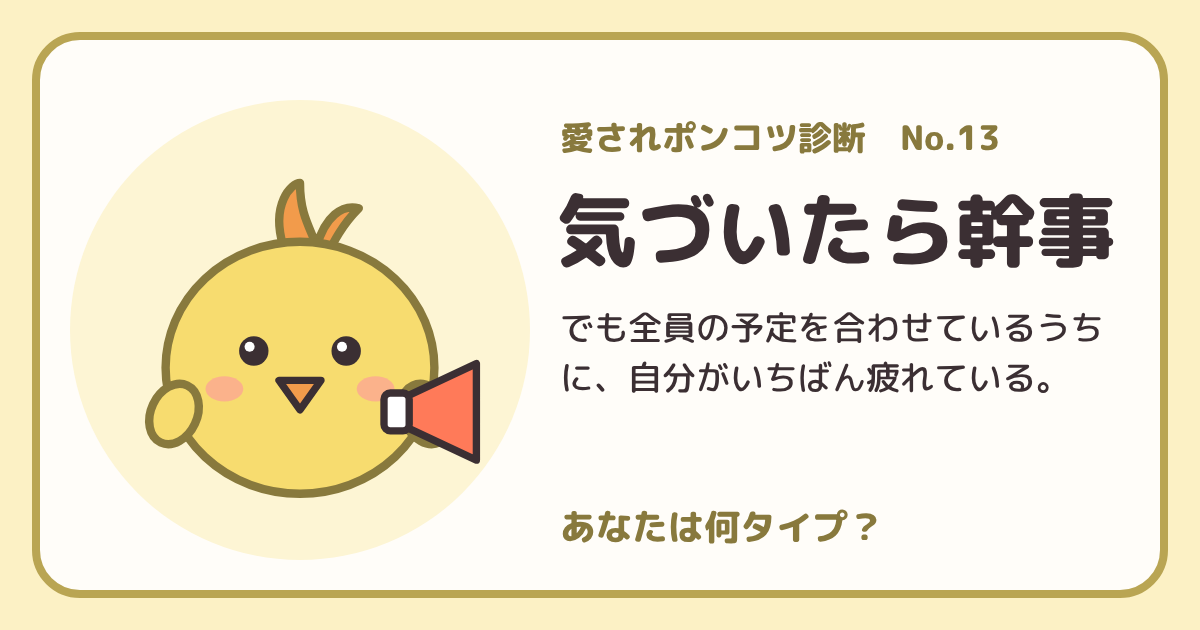
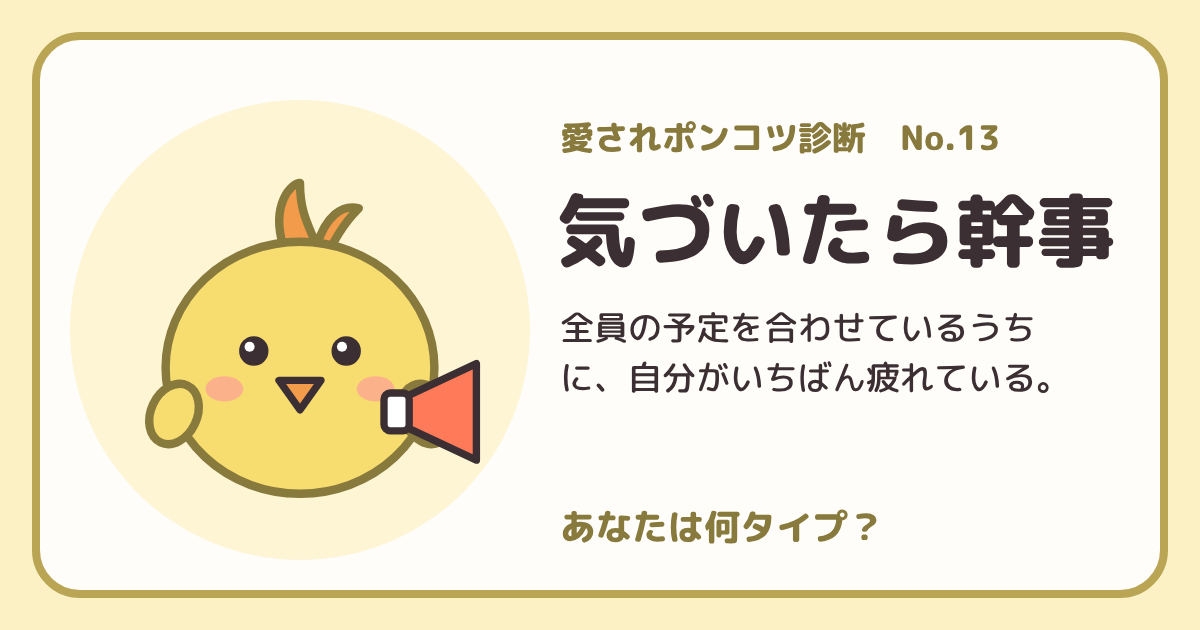
Add skill/weakness status lines, refresh OGP, docs and e2e for v3.1
- Free status chapter shows a 必殺技 (highest parameter) and 弱点 (lowest); also in share text
- OGP images regenerated (roast shown without the leading でも)
- e2e covers cookie restore, guardian claim by secret, one-time gift, thanks retry and cancel, group leave
- Design, monetization and README updated: webhook setup, payment methods, promo expiry,
  support reissue script, new endpoints, schema reset

Claude-Session: https://claude.ai/code/session_01DUibEV4oyXjx4TjK6kcgcY

Changed region(s): [[0.4625, 0.4825, 0.925, 0.5429]]

diff --git a/site/assets/data.js b/site/assets/data.js
@@ -156,13 +156,14 @@ export const AXIS_MAX = 9; // 1軸3問 × 最大3点
 // ---------- くわしい診断のパラメータ（各4問・選択肢は 0〜3 点） ----------
 // タイプはかんたん診断で決まり、くわしい診断は同じタイプを細かくする「続きの章」にする。
 // 二つ名は、いちばん振り切れたパラメータの high / low から取る。
+// skill / weak は、ステータスの「必殺技」（いちばん高いパラメータ）と「弱点」（いちばん低いパラメータ）。
 export const PARAMS = [
-  { key: 'koi', name: '恋愛積極度', high: '恋に全力な', low: '恋はのんびり派の' },
-  { key: 'yaki', name: 'ヤキモチ度', high: 'ヤキモチ焼きの', low: '心が広すぎる' },
-  { key: 'samishi', name: 'さみしがり度', high: 'さみしがりの', low: 'ひとりでも平気な' },
-  { key: 'mousou', name: '妄想力', high: '妄想がとまらない', low: '地に足がついた' },
-  { key: 'oshi', name: '推し活熱量', high: '推しが燃料の', low: '自分推しの' },
-  { key: 'tsukkomi', name: 'ツッコミ力', high: 'ツッコミが鋭い', low: '天然ボケの' },
+  { key: 'koi', name: '恋愛積極度', high: '恋に全力な', low: '恋はのんびり派の', skill: '気づいたら連絡先ゲット', weak: '好きバレまで3年かかる' },
+  { key: 'yaki', name: 'ヤキモチ度', high: 'ヤキモチ焼きの', low: '心が広すぎる', skill: '好きな人の変化に一瞬で気づく', weak: 'ライバルの存在に気づかない' },
+  { key: 'samishi', name: 'さみしがり度', high: 'さみしがりの', low: 'ひとりでも平気な', skill: '気づけば誰かと通話中', weak: '誘いを3日放置' },
+  { key: 'mousou', name: '妄想力', high: '妄想がとまらない', low: '地に足がついた', skill: '脳内で連載100話', weak: 'ロマンチックな雰囲気をスルー' },
+  { key: 'oshi', name: '推し活熱量', high: '推しが燃料の', low: '自分推しの', skill: '布教用グッズ一式', weak: '推しの誕生日を素で忘れる' },
+  { key: 'tsukkomi', name: 'ツッコミ力', high: 'ツッコミが鋭い', low: '天然ボケの', skill: '秒速ツッコミ', weak: 'ボケに気づかず真顔で返す' },
 ];
 export const PARAM_MAX = 12; // 1パラメータ4問 × 最大3点
 

diff --git a/site/assets/report.js b/site/assets/report.js
@@ -51,6 +51,22 @@ function chapter(no, title, body, { free = false, locked = false } = {}) {
   </section>`;
 }
 
+// RPG風の「必殺技」（いちばん高いパラメータ）と「弱点」（いちばん低いパラメータ）。ランクと同じく無料
+export function skillsOf(r) {
+  const order = r.params.map((v, k) => [v, k]).sort((x, y) => y[0] - x[0] || x[1] - y[1]);
+  const hi = order[0];
+  const lo = order[order.length - 1];
+  return hi[0] === lo[0] ? null : { skill: PARAMS[hi[1]], weak: PARAMS[lo[1]], hiRank: rankOf(hi[0]), loRank: rankOf(lo[0]) };
+}
+function skillsBox(r) {
+  const s = skillsOf(r);
+  if (!s) return '';
+  return `<div class="skills">
+    <div><span class="chip">必殺技</span><b>「${esc(s.skill.skill)}」</b><small>${esc(s.skill.name)} ${s.hiRank}</small></div>
+    <div><span class="chip soft">弱点</span><b>「${esc(s.weak.weak)}」</b><small>${esc(s.weak.name)} ${s.loRank}</small></div>
+  </div>`;
+}
+
 function statusChapter(r, prem) {
   const sampleText = PARAM_TEXT[r.nickname.param][paramLevel(r.params[r.nickname.param])];
   const values = statValues(r);
@@ -69,6 +85,7 @@ function statusChapter(r, prem) {
   return `
     <div class="radar-wrap">${radarSVG(values, { labels, masked, color: shade(t.color, 0.32) })}</div>
     <ul class="stats">${rows}</ul>
+    ${skillsBox(r)}
     <p class="hint">S〜D は高さの目安で、よい・わるいではありません。${masked ? 'ランクは無料、6つのパラメータの数値と解説は完全版で読めます。' : ''}</p>
     <div class="nick-why">
       <h3>二つ名「${esc(r.nickname.text)}」の理由</h3>
@@ -142,7 +159,8 @@ export async function viewReport(r, shareId) {
   const love = LOVE_TYPES[r.love];
   const name = fullName(r);
   const url = `${ORIGIN}/t/${typeNo(r.index).toLowerCase()}/?s=${shareId}`;
-  const text = `【${name}】だった！ 恋愛は「${love.name}」\n#${SITE.hashtag} あなたの二つ名は？`;
+  const sk = skillsOf(r);
+  const text = `【${name}】だった！ 恋愛は「${love.name}」${sk ? `\n必殺技「${sk.skill.skill}」／弱点「${sk.weak.weak}」` : ''}\n#${SITE.hashtag} あなたの二つ名は？`;
   await restorePurchase();
   const [stats, fetched, s] = await Promise.all([
     loadStats(),

diff --git a/site/assets/style.css b/site/assets/style.css
@@ -465,3 +465,10 @@ fieldset.age legend { font-size: 13px; font-weight: 800; padding: 0 6px; }
 .plan b em { display: block; font-style: normal; font-size: 12px; color: var(--sub); font-weight: 700; }
 .member-wrap { display: flex; flex-direction: column; align-items: center; }
 .linkish.small { margin-top: 0; font-size: 12px; padding: 2px 6px; }
+
+/* 必殺技と弱点 */
+.skills { display: grid; grid-template-columns: 1fr 1fr; gap: 8px; margin: 10px 0; }
+.skills > div { background: #fff; border: 2px solid var(--line); border-radius: 14px; padding: 8px 10px; display: flex; flex-direction: column; gap: 2px; }
+.skills .chip { align-self: flex-start; font-size: 11px; }
+.skills b { font-size: 14px; line-height: 1.4; }
+.skills small { font-size: 11px; color: var(--sub); }

diff --git a/docs/design.md b/docs/design.md
@@ -1,10 +1,11 @@
-# 愛されポンコツ診断（ポンコツ図鑑）設計メモ v3
+# 愛されポンコツ診断（ポンコツ図鑑）設計メモ v3.1
 
 レポート『SNSでバズる診断コンテンツ調査』の第1位案「自虐ミームラベル診断」を、成功例を参考に作り込んだもの。v3では、診断を**かんたん診断（12問）**と**くわしい診断（＋24問）**の2段階に分けた。くわしい診断の結果は、ふんわりした部分だけを無料で見せる。くわしい部分にはモザイクをかけ、完全版を買うと読めるようにした。
 
 - 名前はすべて仮。`site/assets/config.js` を変えれば全ページに反映される。
-- 調査メモ
+- 調査メモ・レビュー
   - v2: `research_notes/v2_benchmarks/`（結果ページの作り・マネタイズ）
+  - v3.1 のレビュー: `research_notes/v3/review_code.md`（コード・決済・セキュリティ）、`research_notes/v3/review_copy.md`（文言・法令・10代の安全）。指摘はすべて反映した
   - v3: `research_notes/v3/paywall_patterns.md`（チラ見せ・ペイウォール・法規制）、`research_notes/v3/two_tier_and_viral.md`（2段階診断・二つ名・友達クイズ・2026年の10代トレンド）
 - お金まわり: `docs/monetization.md`
 
@@ -22,7 +23,7 @@
 ホーム ─┬─ かんたん診断（12問・約1分）─→ かんたん結果（無料・全部読める）
         │                                   └─ 「くわしい診断の続き（あと24問）」
         └─ くわしい診断（36問・約4分）──→ レポート全8章
-                                            第1章 ステータス ……………… 無料（二つ名の解説を1つ見本で全文）
+                                            第1章 ステータス ……………… 無料（二つ名の解説の前半を見本に）
                                             第2〜3章 パラメータ・恋愛タイプ … 見出し・段階・冒頭の一言は無料、くわしい部分はモザイク
                                             第4〜8章 本当のあなた ほか ……… 見出しと予告は無料、本文はモザイク
                                             → 完全版（390円・買い切り）でモザイクが外れる
@@ -32,7 +33,9 @@
   - 成功例が、詳細版でタイプを出し直していないことに合わせた。
   - 例: LoveType16の64通り、16PersonalitiesのA/T、ビッグファイブのファセット。
 - かんたん診断を終えた人には、「続きから24問」で入れる入口を出す。進捗は「13/36問」から始まる。
-- くわしい診断は8問ずつの3章に分けた。章の終わりごとに「恋愛のクセを読みとりました」のような途中ごほうびを出す。
+- くわしい診断は8問ずつの3パートに分けた（レポートの「章」と区別するため「パート」と呼ぶ）。
+  - パートの終わりごとに、そのパートで測った2つのパラメータのランクをシールのように貼って見せる。
+  - パート2のあとは恋愛タイプを、パート3のあとは「？？？の〇〇」（二つ名の予告）を先に見せる。
 
 ## 成功例から取り入れたもの
 
@@ -42,10 +45,10 @@
 |---|---|---|
 | LoveType16（16タイプ×4傾向＝64通り）、16Personalities（A/T）、ビッグファイブ（5因子→30ファセット）、パーソナルカラー（4→16） | 詳細版は同じタイプの解像度を上げる | 12問でタイプ、24問で6つのパラメータ・二つ名・恋愛タイプを足す |
 | LoveType16「溺愛系ボス猫」、韓国テト／エゲン診断「将軍の気概テト女」 | 「形容＋タイプ名」の二つ名 | 「ヤキモチ焼きの既読スルー職人」。形容12種×20タイプ＝240通り |
-| 診断メーカーの「能力値パラメータ」系 | 数値のステータス | 10項目のレーダーとS〜Dランク。目玉ではなく二つ名の裏付けとして使う |
-| Tinder・Bumbleのぼかしいいね、16Personalitiesの有料プロフィール、Truity、国内の占いサイトの「一部無料」 | 自分についての何かが「ある」ことを見せて、量と価格を先に出す | 章タイトル・段階・冒頭の一言は無料。本文はモザイク。「のこり7章がモザイク中」の固定バー。価格と「1回だけ・自動更新なし」を最初から表示 |
-| 国内の有料鑑定サイトの「1項目だけ全文」 | 見本で中身の質を確かめてもらう | 第1章で、二つ名のもとになったパラメータの解説を全文無料で見せる（`/api/sample`） |
-| 進捗バーのメタ分析（32実験。fast-to-slow型だけ効果があった）、離脱は15問目以降と7〜8分超で増える | 序盤が速く進んで見える進捗と、途中ごほうび | 「13/36問」から始まる進捗、8問ごとの3章、合計約4分 |
+| 診断メーカーの「能力値パラメータ」系、RPGのステータス画面 | 数値のステータス・必殺技と弱点 | 10項目のレーダーとS〜Dランク。いちばん高いパラメータの「必殺技」と、いちばん低い「弱点」。目玉ではなく二つ名の裏付けとして使う |
+| Tinder・Bumbleのぼかしいいね、16Personalitiesの有料プロフィール、Truity、国内の占いサイトの「一部無料」 | 自分についての何かが「ある」ことを見せて、量と価格を先に出す | 章タイトル・段階・冒頭の一言は無料。本文はモザイク。「のこり7章・約2,500字がモザイク中」の固定バー。価格と「税込・買い切り・自動更新なし」を最初から表示 |
+| 国内の有料鑑定サイトの「1項目だけ見本」 | 見本で中身の質を確かめてもらう | 第1章で、二つ名のもとになったパラメータの解説の前半（半分まで）を無料で見せる。後半はモザイク |
+| 進捗バーのメタ分析（32実験。fast-to-slow型だけ効果があった）、離脱は15問目以降と7〜8分超で増える | 序盤が速く進んで見える進捗と、途中ごほうび | 「13/36問」から始まる進捗、8問ごとの3パート、パートごとのシールと先出し、合計約4分 |
 | 16タイプ他己モン診断（takomon16.com）、「私のことどれだけ知ってる？」系 | 友達が答えて理解度を出す。ランキング | わたしクイズ（5問＋タイプ当て）、理解度ランキング。自由記述なし |
 | マイナビティーンズ2026上半期「シール帳」1位、SHIBUYA109 lab.の「アテンション・デトックス」・少人数志向 | シール帳・プロフ帳の見た目、少人数で回るシェア | 図鑑をシール帳にした。プロフ帳カード。LINEグループ向けの共有を主にする |
 | MMD研究所（高校生のQR決済50.8%）、PayPayの若年層向け施策 | クレカがない10代の決済 | 「おうちの人に頼む」リンク（親のスマホで払うと子どもの端末が自動で開く）、PayPay・Apple Pay・Google Pay |
@@ -72,6 +75,7 @@
 | 「通常価格〇〇円→今だけ390円」 | 景品表示法の二重価格になる |
 | 「残りわずか」「〇人が購入中」 | 消費者庁のダークパターン類型（偽の緊急性・社会的証明）に当たる |
 | 購入案内の何度もの自動表示 | 同じくダークパターン類型（しつこい繰り返し）に当たる。自動で出すのは1回まで |
+| 自由に書けるグループ名・ニックネームのまま公開 | 悪口のNGワードを弾き、学校名・クラス名・本名を入れないよう案内する。作った人はメンバーを外せる |
 
 ## 判定の仕組み
 
@@ -92,12 +96,12 @@
 
 | パラメータ | 高いときの形容 | 低いときの形容 | 章 |
 |---|---|---|---|
-| 恋愛積極度 | 恋に全力な | 恋はのんびりな | 第1章 恋とヤキモチ |
-| ヤキモチ度 | ヤキモチ焼きの | 心が広すぎる | 第1章 |
-| さみしがり度 | さみしがりの | ひとりでも平気な | 第2章 さみしさと妄想 |
-| 妄想力 | 妄想がとまらない | 現実しか見ない | 第2章 |
-| 推し活熱量 | 推しに生かされている | 自分が推しの | 第3章 推しと笑い |
-| ツッコミ力 | ツッコミが鋭い | 天然ボケの | 第3章 |
+| 恋愛積極度 | 恋に全力な | 恋はのんびり派の | パート1 恋とヤキモチ |
+| ヤキモチ度 | ヤキモチ焼きの | 心が広すぎる | パート1 |
+| さみしがり度 | さみしがりの | ひとりでも平気な | パート2 さみしさと妄想 |
+| 妄想力 | 妄想がとまらない | 地に足がついた | パート2 |
+| 推し活熱量 | 推しが燃料の | 自分推しの | パート3 推しと笑い |
+| ツッコミ力 | ツッコミが鋭い | 天然ボケの | パート3 |
 
 - 1パラメータあたり4問。選択肢は 0〜3 点で、合計 0〜12 点を 0〜100% にのせる。
 - 段階: 33%以下が「低め」、66%以下が「ふつう」、それより上が「高め」。
@@ -120,9 +124,10 @@
 | ＋ | ＋ | ＋ | 全力ハグ型 | かまって待ち型 |
 
 - **ステータス**（10項目のレーダー）
-  - 4軸: 全力・人たらし・ノリ・切りかえ。かんたん診断と同じ値。
+  - 4軸: その人が寄っている側の名前（省エネ／全力 など）と、その側への寄り具合（50〜100%）。かんたん診断と同じ値。省エネの人に「全力 D」と出さないため。
   - 6パラメータ: 恋愛積極・ヤキモチ・さみしがり・妄想・推し活・ツッコミ。
-  - 無料では、ランクと4軸の％を見せる。6パラメータの％はモザイク。
+  - 無料では、ランクと4軸の％を見せる。6パラメータの％はモザイク。「S〜Dは高さの目安で、よい・わるいではありません」と添える。
+- **必殺技と弱点**（無料）: いちばん高いパラメータの「必殺技」（例：「好きな人の変化に一瞬で気づく」）と、いちばん低いパラメータの「弱点」（例：「誘いを3日放置」）。シェア文にも入る。
 
 ### 隠しタイプ（4種類）
 
@@ -143,7 +148,7 @@
 | 4軸の％と一言 | 振れ幅を3段階に分けて、段階ごとの一言を出す（全24通り） |
 | 裏タイプ | いちばん振れ幅の小さい軸をひっくり返したタイプ |
 | 成分表 | 原材料名（タイプごと）、内容量＝純度、栄養成分表示＝4軸の％ |
-| レア度 | 診断完了が200件になるまでは、全員がランダムに答えた場合の理論値を、「理論値」と明記して出す。200件を超えたら実際の集計に切り替える |
+| レア度 | 診断完了が200件になるまでは、全員がランダムに答えた場合の値を「計算上の値」と明記して出す。200件を超えたら実際の集計に切り替える |
 | 二つ名・恋愛タイプ・ステータス | くわしい診断のみ（上を参照） |
 
 ### 結果コード
@@ -223,18 +228,19 @@
 
 | 章 | 無料で見えるもの | モザイク（完全版） |
 |---|---|---|
-| 1 ステータス | レーダー・10項目のランク・4軸の％・二つ名の理由・**二つ名のもとになったパラメータの解説（全文の見本）** | 6パラメータの％ |
-| 2 パラメータ解説 | 6項目の段階・ランク・冒頭の一言 | 5項目の解説（見本の1項目を除く） |
+| 1 ステータス | レーダー・10項目のランク・4軸の％・必殺技と弱点・二つ名の理由・**二つ名のもとになったパラメータの解説の前半（見本）** | 6パラメータの％・見本の後半 |
+| 2 パラメータ解説 | 6項目の段階・ランク・冒頭の一言 | 6項目の解説（見本の1項目は後半） |
 | 3 恋愛タイプ | 恋愛タイプ名・キャッチ・冒頭の一言・相性のいい恋愛タイプの名前 | 深掘り・恋のアドバイス3つ・相性の理由 |
-| 4 本当のあなた | 予告の一文 | 本文 |
+| 4 本当のあなた | 1文目（予告） | 2文目から |
 | 5 ポンコツを武器にする3つの方法 | 見出し | 3項目 |
 | 6 恋愛の落とし穴と攻略法 | 見出し | 本文 |
 | 7 2027年の過ごし方ヒント | 見出し | 本文 |
-| 8 お守りメッセージ | 見出し | 本文 |
+| 8 ひとことエール | 見出し | 本文 |
 
 - **モザイクの下に本物の文章は置かない**。有料の文章はサーバーにだけある。
-  - モザイクは、そのタイプの無料の文章を材料にしたダミー文字に、CSSのぼかしをかけたもの。
+  - モザイクは、そのタイプの無料の文章を材料にしたダミー文字に、CSSのぼかしをかけたもの。長さは購入後に出る文章と同じで、「約〇字」と量を出す。
   - 開発者ツールで覗いても中身は読めない。スモークテストで、有料文がページに入っていないことを毎回確かめている。
+  - 有料の文章は1タイプあたり約1,200〜1,450字（5章ぶん）。パラメータ5項目と恋愛タイプを足すと、1人あたり約2,500字がモザイクの下にある。
 - 購入の案内
   - 画面下の固定バー: 「のこり7章がモザイク中／390円で全部読む」
   - 第1章の直後のボタン
@@ -253,7 +259,7 @@
 
 | 仕組み | 中身 |
 |---|---|
-| 結果カード・二つ名カード（9:16） | キャラ・二つ名つきのラベル・恋愛タイプ・純度・痛い一行・タイル。完全版を買った人はゴールド枠 |
+| 結果カード・二つ名カード（9:16） | キャラ・二つ名つきのラベル・恋愛タイプ・純度・痛い一行・タイル。完全版を買った人は金色の枠 |
 | ステータスカード（9:16） | レーダーと10項目のランク（完全版） |
 | 成分表カード（9:16） | 食品表示のパロディ。自分の％が入るので、同じタイプの人ともちがう画像になる |
 | プロフ帳カード（9:16） | タイプ・二つ名に、ニックネーム・好きなもの・ひとことを入れたプロフ帳。入れた文字は画像の中だけで使い、サーバーには送らない |
@@ -261,7 +267,7 @@
 | タイプ別OGP | `/t/NN/`・`/i/NN/`・`/k/NN/`。ペア用・グループ用のOGPもある |
 | おさそいリンク | `/i/NN/?f=結果&n=名前`。開いた人が診断すると、ふたりの相性が出る |
 | わたしクイズ | `/k/NN/?...`。出題者の答え5問＋タイプ当て。答えた人は理解度（〇/6）が出て、成績を出題者に送り返せる。出題者の端末に理解度ランキングができる。自由記述なし |
-| グループ診断 | `/g/?id=xxxx`。メンバーとタイプ、役割（幹事役・ムードメーカー・切り込み隊長・参謀・癒し担当・聞き役・自由人）、いちばん相性のいいペア。最大50人、90日で閲覧不可 |
+| グループ診断 | `/g/?id=xxxx`。メンバーとタイプ、役割（幹事役・ムードメーカー・切り込み隊長・参謀・癒やし担当・聞き役・自由人）、いちばん相性のいいペア。最大50人。保存するのはニックネームとかんたん診断の結果だけ。作った人はメンバーを外したりグループを消したりでき、メンバーは自分で抜けられる。90日で消える |
 | 図鑑（シール帳） | 自分と、相性をくらべた友達・クイズに答えた友達のタイプで、シールが集まる（x/20）。隠しタイプは出会うまでシルエット |
 | SNS運用素材 | `npm run cards` で、全タイプの紹介スライドと結果カードの見本を書き出す |
 
@@ -331,7 +337,7 @@ npm run content                     # types.js と premium.js の生成
 **Q1（省エネ ⇔ 全力）待ちに待った休日。まず何する？**
 - 昼まで寝る。布団から出ないのが正義（−3）
 - とりあえずスマホを見てたら昼（−1・スマホ）
-- 朝から出かける予定を入れてある（+1）
+- 午前中には起きて、何かしら動く（+1）
 - やりたいことが多すぎて朝からフル稼働（+3）
 
 **Q2（ひとり好き ⇔ 人たらし）初対面の人ばかりの集まり。どうする？**
@@ -358,10 +364,10 @@ npm run content                     # types.js と premium.js の生成
 - 調べまくって道具までそろえる（+1）
 - 寝る時間をけずってでものめりこむ（+3）
 
-**Q6（ひとり好き ⇔ 人たらし）ひとりの時間と、だれかといる時間。**
+**Q6（ひとり好き ⇔ 人たらし）ひとりの時間と、誰かといる時間、どっちが好き？**
 - ひとりじゃないと充電できない（−3）
 - ひとりが多めだとちょうどいい（−1）
-- だれかといるほうが元気が出る（+1）
+- 誰かといるほうが元気が出る（+1）
 - ひとりだと逆に疲れる（+3）
 
 **Q7（計画派 ⇔ ノリ派）コンビニで新作スイーツを見つけた。**
@@ -370,9 +376,9 @@ npm run content                     # types.js と premium.js の生成
 - とりあえず買う。食べてから考える（+1・食欲）
 - 新作は全部買う。迷ったら両方（+3・金欠）
 
-**Q8（考えすぎ ⇔ 秒で忘れる）嫌なことがあった日のなおし方は？**
+**Q8（考えすぎ ⇔ 秒で忘れる）嫌なことがあった日、どうやって切りかえる？**
 - 原因を一晩じゅう考える（−3）
-- 誰かに聞いてもらう（−1）
+- ちょっと引きずるけど、次の日には平気（−1）
 - おいしいものを食べて忘れる（+1・食欲）
 - 寝たらだいたいリセット（+3）
 
@@ -382,17 +388,17 @@ npm run content                     # types.js と premium.js の生成
 - 着替えて、やることを片づける（+1）
 - 着替えて、また出かける（+3）
 
-**Q10（ひとり好き ⇔ 人たらし）急に「今から遊ばない？」と誘われたら？**
-- 心の準備ができてないので断る（−3）
-- 相手によっては行く（−1）
-- だいたい行く（+1）
-- 誘われる前に自分から誘ってる（+3）
+**Q10（ひとり好き ⇔ 人たらし）休み時間や休憩中、どう過ごす？**
+- ひとりで好きなことをする（−3）
+- 仲のいい1人とだけ話す（−1）
+- 近くの人と話す（+1）
+- 気づけば輪の真ん中にいる（+3）
 
 **Q11（計画派 ⇔ ノリ派）お金の使い方は？**
 - 毎月ちゃんと貯金してる（−3）
 - 使う前に一応考える（−1）
-- 気づいたら残高がない（+1・金欠）
-- 「なんとかなる」が口ぐせ（+3）
+- 気づいたらおこづかいが残りわずか（+1・金欠）
+- 「なんとかなる」で、あるだけ使う（+3）
 
 **Q12（考えすぎ ⇔ 秒で忘れる）欲しかったものを買った次の日。**
 - 本当に必要だったかな…と考えこむ（−3）
@@ -402,7 +408,7 @@ npm run content                     # types.js と premium.js の生成
 
 ### くわしい診断（＋24問・0〜3点）
 
-8問ずつ3章。各パラメータ4問。
+8問ずつ3パート。各パラメータ4問。
 
 **D1（恋愛積極度）気になる人ができたら？**　遠くから見ているだけで満足（0） ／ 共通の友達にさりげなく聞く（1） ／ 自分から話しかけに行く（2） ／ 気づいたら連絡先を聞いている（3）
 
@@ -418,13 +424,13 @@ npm run content                     # types.js と premium.js の生成
 
 **D7（恋愛積極度）好きな人の誕生日が近い。**　とくに何もしない（0） ／ おめでとうのメッセージだけ送る（1） ／ ちょっとしたプレゼントを渡す（2） ／ サプライズを全力で計画する（3）
 
-**D8（ヤキモチ度）仲のいい友達が、ほかの子と“おそろい”を持っていた。**　とくに気にしない（0） ／ 「かわいいね」と言う（1） ／ ちょっとうらやましい（2） ／ 「私ともおそろいにしよ」と言う（3）
+**D8（ヤキモチ度）仲のいい友達が、ほかの子と「おそろい」を持っていた。**　とくに気にしない（0） ／ 「かわいいね」と言う（1） ／ ちょっとうらやましい（2） ／ 「今度おそろいにしよ」と言う（3）
 
 **D9（さみしがり度）休日に予定が何もない。**　最高。ひとりを満喫する（0） ／ のんびりできてうれしい（1） ／ 夕方になると誰かと話したくなる（2） ／ 朝から誰かに連絡している（3）
 
 **D10（妄想力）移動中や授業中、頭の中では？**　目の前のことに集中している（0） ／ 次の予定のことを考えている（1） ／ ありえない「もしも」を考えている（2） ／ 頭の中で、別の人生を生きている（3）
 
-**D11（さみしがり度）ひとりでご飯を食べるのは？**　むしろ好き（0） ／ 全然平気（1） ／ できれば誰かと食べたい（2） ／ ひとりのときは通話をつなぐ（3）
+**D11（さみしがり度）ひとりでごはんを食べるのは？**　むしろ好き（0） ／ 全然平気（1） ／ できれば誰かと食べたい（2） ／ ひとりのときは通話をつなぐ（3）
 
 **D12（妄想力）好きな人と目が合った。**　たまたまだと思う（0） ／ ちょっとうれしい（1） ／ 何か意味があるかもと考える（2） ／ 頭の中で、ふたりの未来まで進む（3）
 
@@ -434,15 +440,15 @@ npm run content                     # types.js と premium.js の生成
 
 **D15（さみしがり度）家に帰って、誰もいないとき。**　静かで最高（0） ／ とくに何も思わない（1） ／ とりあえず動画や音楽をつける（2） ／ すぐ誰かに連絡する（3）
 
-**D16（妄想力）推しや好きなキャラとの「もしも」のシチュエーション。**　とくに考えない（0） ／ たまに考える（1） ／ セリフまで考える（2） ／ 頭の中で連載している（3）
+**D16（妄想力）推しや好きなキャラとの「もしも」、考える？**　とくに考えない（0） ／ たまに考える（1） ／ セリフまで考える（2） ／ 頭の中で連載している（3）
 
-**D17（推し活熱量）推しはいる？**　とくにいない（0） ／ ゆるく好きな人がいる（1） ／ はっきり推しがいる（2） ／ 推しが生きる意味（3）
+**D17（推し活熱量）推しはいる？**　とくにいない（0） ／ ゆるく好きな人がいる（1） ／ はっきり推しがいる（2） ／ 推しが毎日の原動力（3）
 
 **D18（ツッコミ力）友達がボケた。**　ボケだと気づかずに流す（0） ／ 笑ってあげる（1） ／ 軽くツッコむ（2） ／ 秒でツッコんで、さらに広げる（3）
 
 **D19（推し活熱量）推しのグッズは？**　とくに買わない（0） ／ 気に入ったものだけ買う（1） ／ 新しいのが出たらだいたい買う（2） ／ 保存用・使う用・布教用をそろえる（3）
 
-**D20（ツッコミ力）ドラマや映画の、ご都合主義なシーン。**　素直に感動する（0） ／ 気にせず楽しむ（1） ／ 心の中でツッコむ（2） ／ 声に出してツッコむ（3）
+**D20（ツッコミ力）ドラマや映画で、さすがに都合がよすぎる展開がきた。**　素直に感動する（0） ／ 気にせず楽しむ（1） ／ 心の中でツッコむ（2） ／ 声に出してツッコむ（3）
 
 **D21（推し活熱量）推しの誕生日は？**　知らない（0） ／ なんとなく覚えている（1） ／ SNSでお祝いする（2） ／ 自分の誕生日より準備する（3）
 
@@ -450,4 +456,4 @@ npm run content                     # types.js と premium.js の生成
 
 **D23（推し活熱量）推しの話になると？**　聞く側にまわる（0） ／ 少しだけ話す（1） ／ 話が止まらなくなる（2） ／ 布教用の資料が出てくる（3）
 
-**D24（ツッコミ力）グループトークで、誰かがボケたスタンプを送った。**　そっとスルー（0） ／ スタンプで返す（1） ／ ひとことツッコむ（2） ／ そこから大喜利が始まる（3）
+**D24（ツッコミ力）グループトークで、誰かがスタンプでボケてきた。**　そっとスルー（0） ／ スタンプで返す（1） ／ ひとことツッコむ（2） ／ そこから大喜利が始まる（3）
